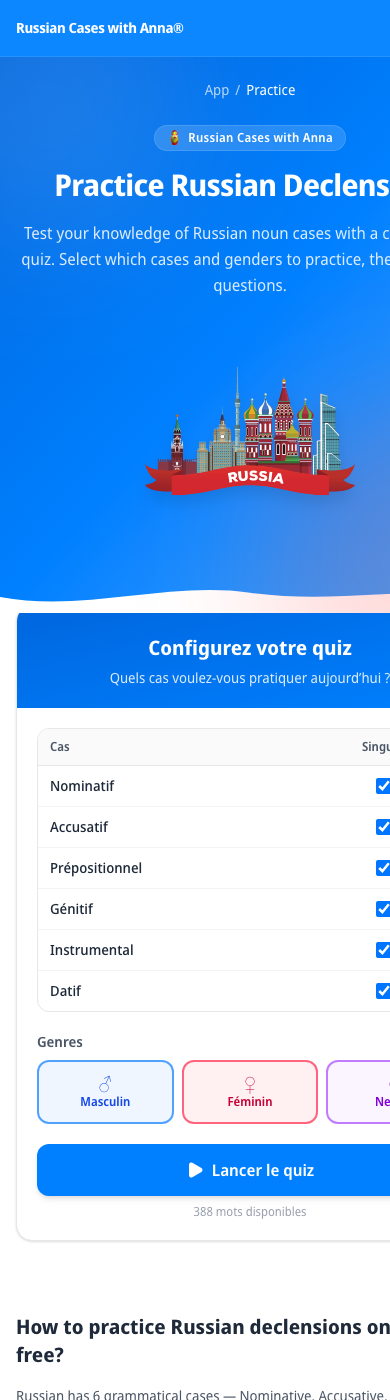
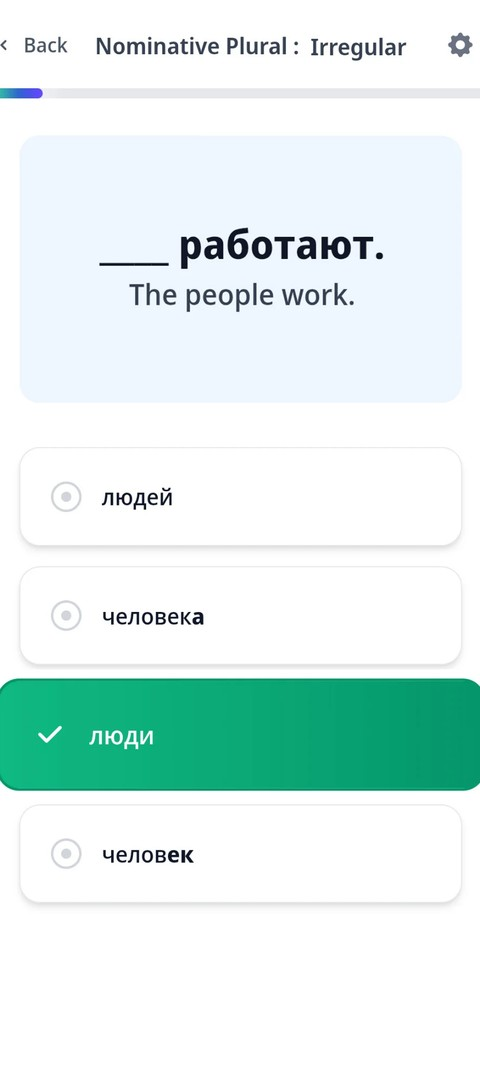
Article top 10 apps : vrais screenshots pour Russian Cases with Anna, header photo téléphones, tier list déplacée dans le corps
- Remplace les 2 captures "site web" de Russian Cases with Anna par 3 vrais screenshots de l'app (recadrés depuis les mockups de la landing page) — mis à jour dans le fichier anglais de base et les 7 traductions
- Ajoute l'image d'en-tête de l'article (photo comparatif à 6 téléphones), qui n'était affichée nulle part dans la page article elle-même
- Déplace la tier list S–D du haut de page vers le corps de l'article, juste après l'intro

diff --git a/src/data/learnArticles.ts b/src/data/learnArticles.ts
@@ -203,6 +203,12 @@ export const learnArticles: Record<string, LearnArticle> = {
       'rosetta stone russian',
     ],
     h1: 'Top 11 Apps to Learn Russian in 2026: Deep Reviews & Rankings',
+    heroImage: {
+      src: '/articles/top-10-apps-to-learn-russian-2026.webp',
+      alt: 'A learner comparing six Russian learning apps — Duolingo, Babbel, Rosetta Stone, Busuu, Memrise, and Pimsleur — side by side on phones',
+      width: 794,
+      height: 446,
+    },
     intro:
       'Learning Russian in 2026 no longer looks like a dusty textbook and a red-pen workbook. Speech recognition, spaced-repetition titans, AI conversation partners, and specialist grammar drills are mainstream—which is exciting until you realise **more** apps means **harder** choices, not simpler ones.\n\nThe App Store and Play Store are crowded with Russian products, each promising fluency on a tight schedule. The real risk is not downloading a "bad" app; it is losing months to the **wrong stack for your goal**—pretty streaks when you need disciplined case practice, or endless gamification when what you actually need is endings you can deploy under pressure in real sentences.\n\nWe have spent 100+ hours testing the latest updates, flagship courses, tutor marketplaces, and niche drill tools to bring you a **definitive ranking of the best Russian learning apps** this year. We stress-tested more than thirty iOS, Android, and web tools—subscriptions, freemium giants, audio-first programmes, community-feedback apps, and case-focused trainers—and narrowed the field to **eleven you can trust**. The picks below are mapped to how people actually study: **daily habit**, **structured scenarios**, **Russian cases and declensions**, **human tutoring**, **audio-first learning**, **memory-driven vocabulary**, **story and podcast immersion**, and **fast pattern practice** once the basics stick.\n\nIf your bottleneck is **Russian cases** (not tourist phrases alone), start with our method piece: [How to practice Russian cases: five methods, drills & a weekly habit](/learn/articles/how-to-practice-russian-cases)—then come back here to choose apps that match how you really learn.',
     introByline: ARTICLE_BYLINE,
@@ -530,8 +536,9 @@ export const learnArticles: Record<string, LearnArticle> = {
           height: 256,
         },
         screenshots: [
-          { src: '/articles/app-screenshots/russian-cases-with-anna/1.jpg', alt: 'Russian Cases with Anna screenshot 1', width: 390, height: 1400 },
-          { src: '/articles/app-screenshots/russian-cases-with-anna/2.jpg', alt: 'Russian Cases with Anna screenshot 2', width: 390, height: 1400 },
+          { src: '/articles/app-screenshots/russian-cases-with-anna/1.jpg', alt: 'Russian Cases with Anna app screenshot 1', width: 480, height: 1091 },
+          { src: '/articles/app-screenshots/russian-cases-with-anna/2.jpg', alt: 'Russian Cases with Anna app screenshot 2', width: 480, height: 1091 },
+          { src: '/articles/app-screenshots/russian-cases-with-anna/3.jpg', alt: 'Russian Cases with Anna app screenshot 3', width: 480, height: 1091 },
         ],
         rating: 9,
         pros: [

diff --git a/src/app/learn/articles/[slug]/page.tsx b/src/app/learn/articles/[slug]/page.tsx
@@ -952,10 +952,6 @@ export default async function LearnArticlePage({ params }: Props) {
           <span className="learn-breadcrumb-current">{article.h1}</span>
         </nav>
 
-        {article.tierListChart && article.tierListChart.tiers.length > 0 ? (
-          <LearnArticleTierListChart chart={article.tierListChart} />
-        ) : null}
-
         <header className="learn-detail-header">
           <Link href="/learn" className="learn-detail-back">
             {t.backToLearn}
@@ -1052,6 +1048,10 @@ export default async function LearnArticlePage({ params }: Props) {
         </header>
 
         <div className="learn-detail-body">
+          {article.tierListChart && article.tierListChart.tiers.length > 0 ? (
+            <LearnArticleTierListChart chart={article.tierListChart} />
+          ) : null}
+
           {article.sections && article.sections.length > 0 ? (
             <>
               {article.sections.map((section, idx) => {

diff --git a/src/data/articleTranslationsDe/top-10-apps-russian.ts b/src/data/articleTranslationsDe/top-10-apps-russian.ts
@@ -351,8 +351,9 @@ export const top10AppsRussianDe: LearnArticle = {
         height: 256,
       },
       screenshots: [
-        { src: '/articles/app-screenshots/russian-cases-with-anna/1.jpg', alt: 'Russian Cases with Anna screenshot 1', width: 390, height: 1400 },
-        { src: '/articles/app-screenshots/russian-cases-with-anna/2.jpg', alt: 'Russian Cases with Anna screenshot 2', width: 390, height: 1400 },
+        { src: '/articles/app-screenshots/russian-cases-with-anna/1.jpg', alt: 'Russian Cases with Anna app screenshot 1', width: 480, height: 1091 },
+        { src: '/articles/app-screenshots/russian-cases-with-anna/2.jpg', alt: 'Russian Cases with Anna app screenshot 2', width: 480, height: 1091 },
+        { src: '/articles/app-screenshots/russian-cases-with-anna/3.jpg', alt: 'Russian Cases with Anna app screenshot 3', width: 480, height: 1091 },
       ],
       rating: 9,
       pros: [

diff --git a/src/data/articleTranslationsEs/top-10-apps-russian.ts b/src/data/articleTranslationsEs/top-10-apps-russian.ts
@@ -352,8 +352,9 @@ export const top10AppsRussianEs: LearnArticle = {
         height: 256,
       },
       screenshots: [
-        { src: '/articles/app-screenshots/russian-cases-with-anna/1.jpg', alt: 'Russian Cases with Anna screenshot 1', width: 390, height: 1400 },
-        { src: '/articles/app-screenshots/russian-cases-with-anna/2.jpg', alt: 'Russian Cases with Anna screenshot 2', width: 390, height: 1400 },
+        { src: '/articles/app-screenshots/russian-cases-with-anna/1.jpg', alt: 'Russian Cases with Anna app screenshot 1', width: 480, height: 1091 },
+        { src: '/articles/app-screenshots/russian-cases-with-anna/2.jpg', alt: 'Russian Cases with Anna app screenshot 2', width: 480, height: 1091 },
+        { src: '/articles/app-screenshots/russian-cases-with-anna/3.jpg', alt: 'Russian Cases with Anna app screenshot 3', width: 480, height: 1091 },
       ],
       rating: 9,
       pros: [

diff --git a/src/data/articleTranslationsFr/top-10-apps-russian.ts b/src/data/articleTranslationsFr/top-10-apps-russian.ts
@@ -352,8 +352,9 @@ export const top10AppsRussianFr: LearnArticle = {
         height: 256,
       },
       screenshots: [
-        { src: '/articles/app-screenshots/russian-cases-with-anna/1.jpg', alt: 'Russian Cases with Anna screenshot 1', width: 390, height: 1400 },
-        { src: '/articles/app-screenshots/russian-cases-with-anna/2.jpg', alt: 'Russian Cases with Anna screenshot 2', width: 390, height: 1400 },
+        { src: '/articles/app-screenshots/russian-cases-with-anna/1.jpg', alt: 'Russian Cases with Anna app screenshot 1', width: 480, height: 1091 },
+        { src: '/articles/app-screenshots/russian-cases-with-anna/2.jpg', alt: 'Russian Cases with Anna app screenshot 2', width: 480, height: 1091 },
+        { src: '/articles/app-screenshots/russian-cases-with-anna/3.jpg', alt: 'Russian Cases with Anna app screenshot 3', width: 480, height: 1091 },
       ],
       rating: 9,
       pros: [

diff --git a/src/data/articleTranslationsIt/top-10-apps-russian.ts b/src/data/articleTranslationsIt/top-10-apps-russian.ts
@@ -352,8 +352,9 @@ export const top10AppsRussianIt: LearnArticle = {
         height: 256,
       },
       screenshots: [
-        { src: '/articles/app-screenshots/russian-cases-with-anna/1.jpg', alt: 'Russian Cases with Anna screenshot 1', width: 390, height: 1400 },
-        { src: '/articles/app-screenshots/russian-cases-with-anna/2.jpg', alt: 'Russian Cases with Anna screenshot 2', width: 390, height: 1400 },
+        { src: '/articles/app-screenshots/russian-cases-with-anna/1.jpg', alt: 'Russian Cases with Anna app screenshot 1', width: 480, height: 1091 },
+        { src: '/articles/app-screenshots/russian-cases-with-anna/2.jpg', alt: 'Russian Cases with Anna app screenshot 2', width: 480, height: 1091 },
+        { src: '/articles/app-screenshots/russian-cases-with-anna/3.jpg', alt: 'Russian Cases with Anna app screenshot 3', width: 480, height: 1091 },
       ],
       rating: 9,
       pros: [

diff --git a/src/data/articleTranslationsPl/top-10-apps-russian.ts b/src/data/articleTranslationsPl/top-10-apps-russian.ts
@@ -352,8 +352,9 @@ export const top10AppsRussianPl: LearnArticle = {
         height: 256,
       },
       screenshots: [
-        { src: '/articles/app-screenshots/russian-cases-with-anna/1.jpg', alt: 'Russian Cases with Anna screenshot 1', width: 390, height: 1400 },
-        { src: '/articles/app-screenshots/russian-cases-with-anna/2.jpg', alt: 'Russian Cases with Anna screenshot 2', width: 390, height: 1400 },
+        { src: '/articles/app-screenshots/russian-cases-with-anna/1.jpg', alt: 'Russian Cases with Anna app screenshot 1', width: 480, height: 1091 },
+        { src: '/articles/app-screenshots/russian-cases-with-anna/2.jpg', alt: 'Russian Cases with Anna app screenshot 2', width: 480, height: 1091 },
+        { src: '/articles/app-screenshots/russian-cases-with-anna/3.jpg', alt: 'Russian Cases with Anna app screenshot 3', width: 480, height: 1091 },
       ],
       rating: 9,
       pros: [

diff --git a/src/data/articleTranslationsPt/top-10-apps-russian.ts b/src/data/articleTranslationsPt/top-10-apps-russian.ts
@@ -351,8 +351,9 @@ export const top10AppsRussianPt: LearnArticle = {
         height: 256,
       },
       screenshots: [
-        { src: '/articles/app-screenshots/russian-cases-with-anna/1.jpg', alt: 'Russian Cases with Anna screenshot 1', width: 390, height: 1400 },
-        { src: '/articles/app-screenshots/russian-cases-with-anna/2.jpg', alt: 'Russian Cases with Anna screenshot 2', width: 390, height: 1400 },
+        { src: '/articles/app-screenshots/russian-cases-with-anna/1.jpg', alt: 'Russian Cases with Anna app screenshot 1', width: 480, height: 1091 },
+        { src: '/articles/app-screenshots/russian-cases-with-anna/2.jpg', alt: 'Russian Cases with Anna app screenshot 2', width: 480, height: 1091 },
+        { src: '/articles/app-screenshots/russian-cases-with-anna/3.jpg', alt: 'Russian Cases with Anna app screenshot 3', width: 480, height: 1091 },
       ],
       rating: 9,
       pros: [

diff --git a/src/data/articleTranslationsTr/top-10-apps-russian.ts b/src/data/articleTranslationsTr/top-10-apps-russian.ts
@@ -351,8 +351,9 @@ export const top10AppsRussianTr: LearnArticle = {
         height: 256,
       },
       screenshots: [
-        { src: '/articles/app-screenshots/russian-cases-with-anna/1.jpg', alt: 'Russian Cases with Anna screenshot 1', width: 390, height: 1400 },
-        { src: '/articles/app-screenshots/russian-cases-with-anna/2.jpg', alt: 'Russian Cases with Anna screenshot 2', width: 390, height: 1400 },
+        { src: '/articles/app-screenshots/russian-cases-with-anna/1.jpg', alt: 'Russian Cases with Anna app screenshot 1', width: 480, height: 1091 },
+        { src: '/articles/app-screenshots/russian-cases-with-anna/2.jpg', alt: 'Russian Cases with Anna app screenshot 2', width: 480, height: 1091 },
+        { src: '/articles/app-screenshots/russian-cases-with-anna/3.jpg', alt: 'Russian Cases with Anna app screenshot 3', width: 480, height: 1091 },
       ],
       rating: 9,
       pros: [
